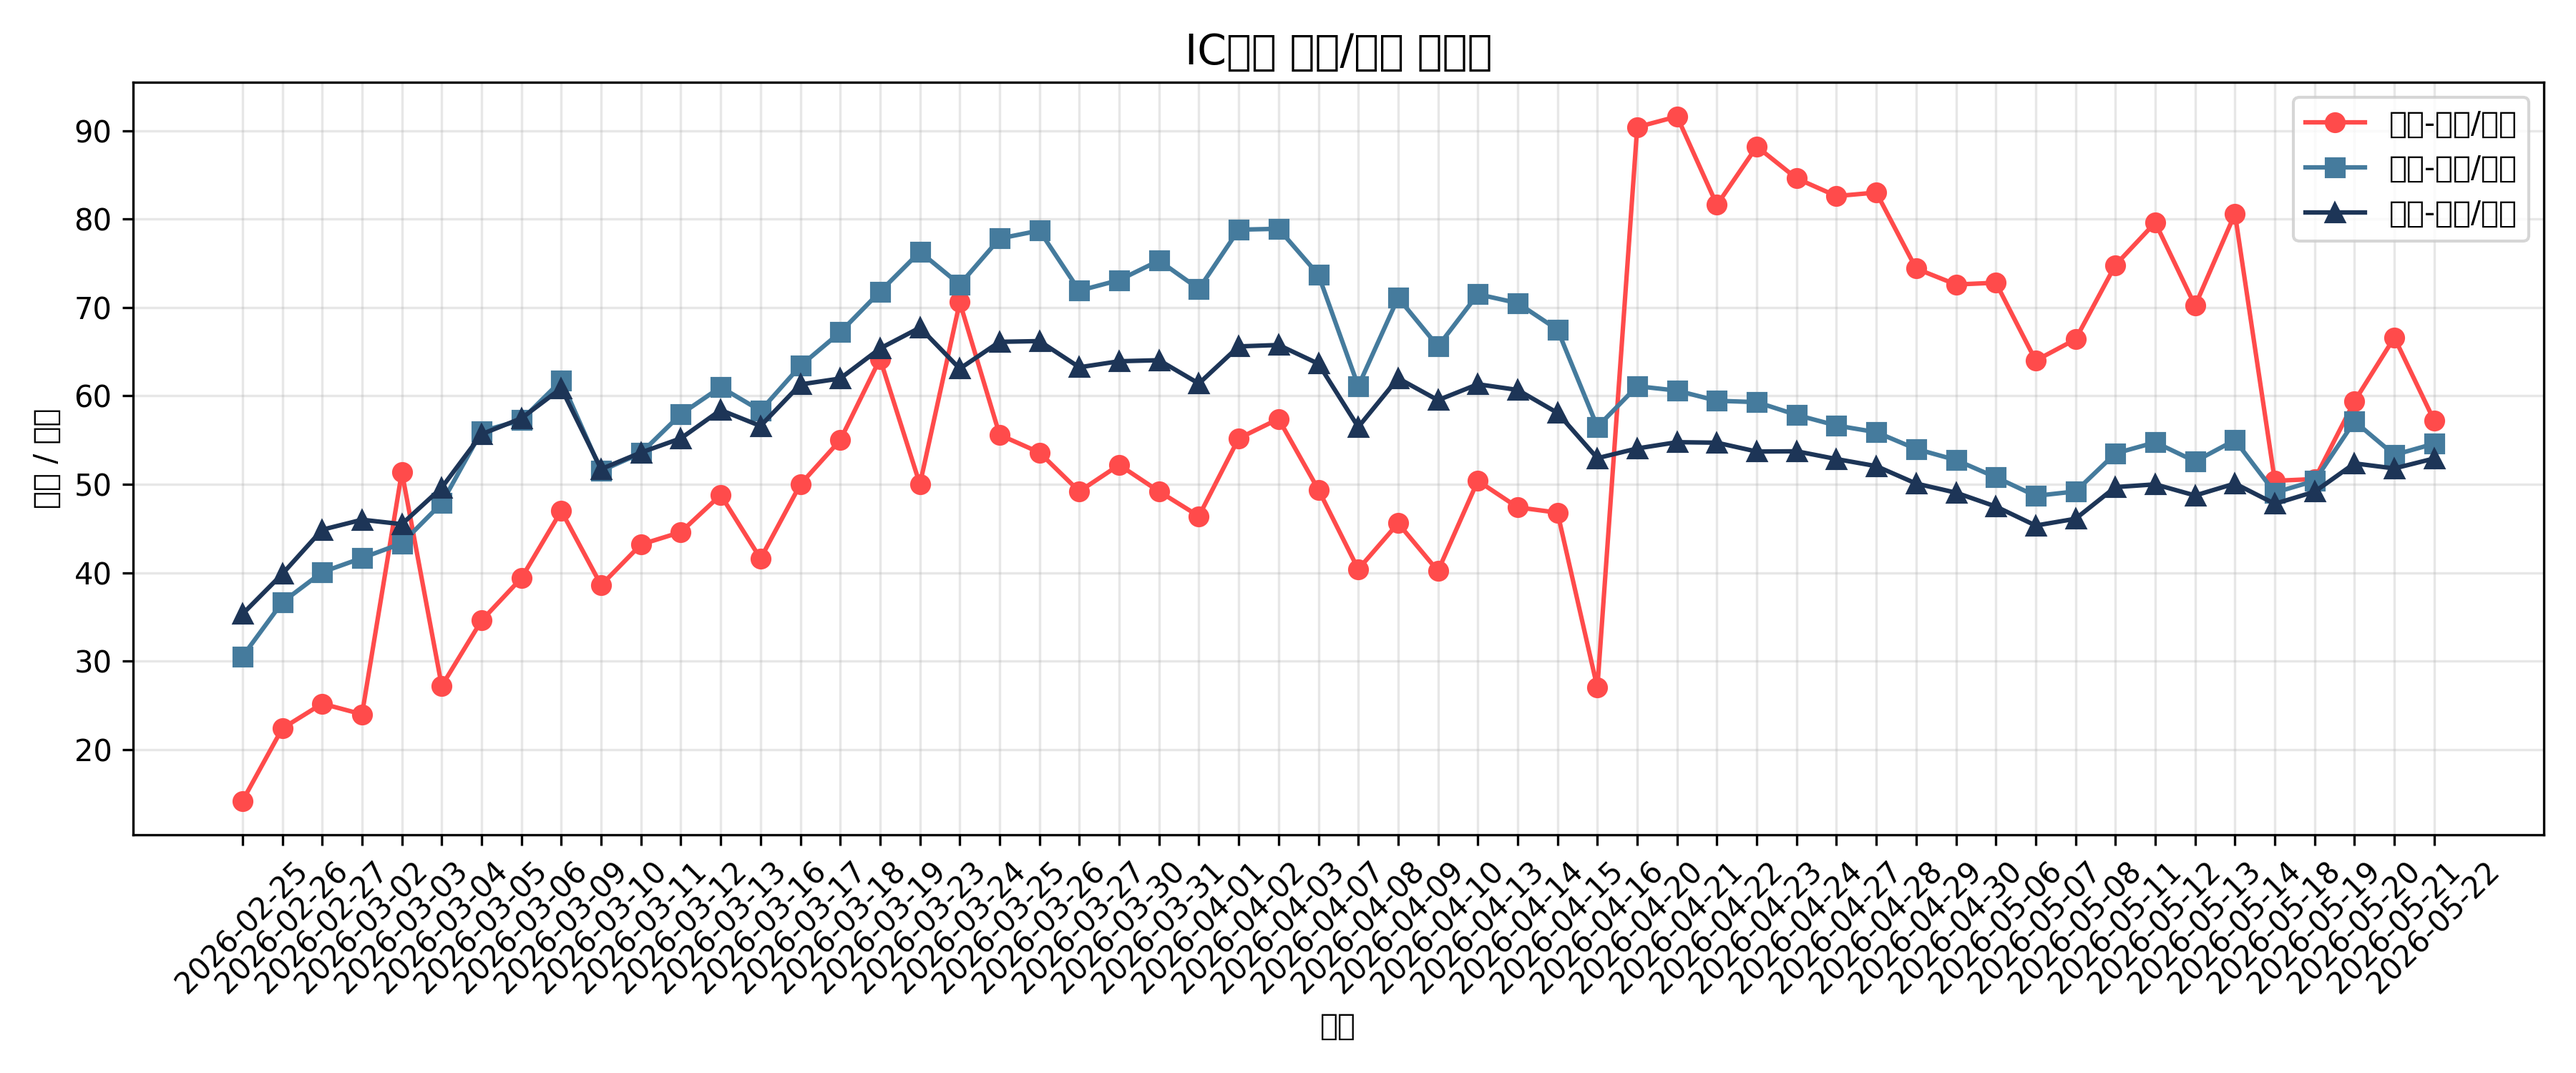
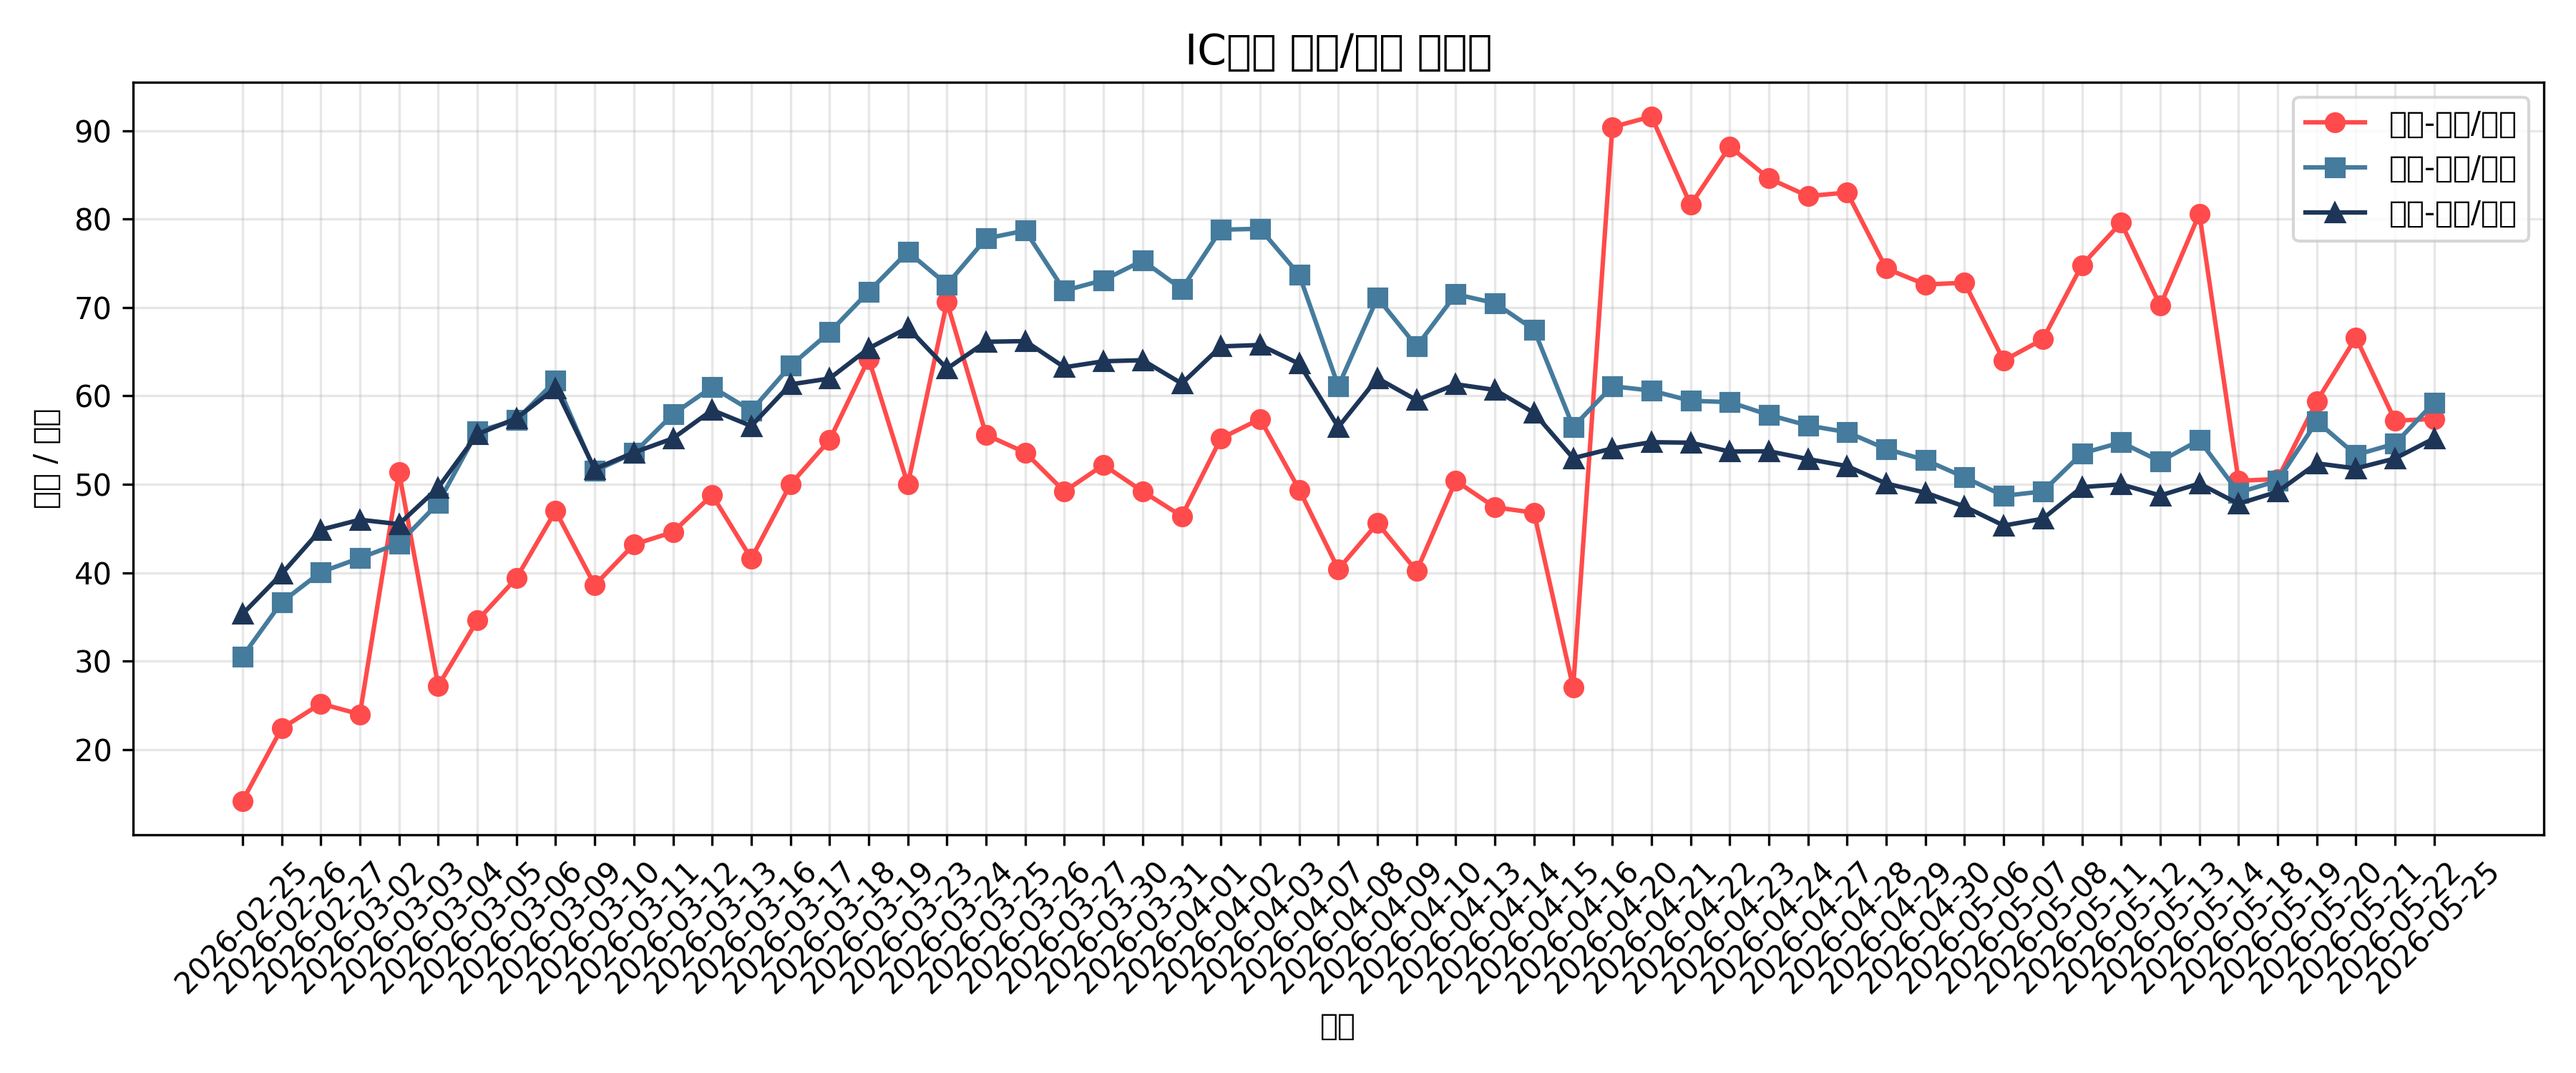
deploy: 4d1bb30b7b0bf8623cc214497fc979b4192c654b

diff --git a/index.html b/index.html
@@ -84,19 +84,19 @@
 <body>
     <div class="container">
         <h1>IC期货基差监控</h1>
-        <div class="last-updated">最后更新：2026-05-22 19:28:31</div>
+        <div class="last-updated">最后更新：2026-05-25 20:08:39</div>
         
         <div class="stats">
             <div class="stat-card">
-                <div class="stat-value">57.2</div>
+                <div class="stat-value">57.4</div>
                 <div class="stat-label">当月-下月/月差</div>
             </div>
             <div class="stat-card">
-                <div class="stat-value">54.6</div>
+                <div class="stat-value">59.27</div>
                 <div class="stat-label">当月-当季/月差</div>
             </div>
             <div class="stat-card">
-                <div class="stat-value">52.93</div>
+                <div class="stat-value">55.2</div>
                 <div class="stat-label">当月-下季/月差</div>
             </div>
         </div>
@@ -114,14 +114,6 @@
                 <th>当月-下月/月差</th>
                 <th>当月-当季/月差</th>
                 <th>当月-下季/月差</th>
-            </tr>
-
-            <tr>
-                <td>2026-05-13</td>
-                <td>IC2605</td>
-                <td>70.2</td>
-                <td>52.6</td>
-                <td>48.74</td>
             </tr>
 
             <tr>
@@ -170,6 +162,14 @@
                 <td>57.2</td>
                 <td>54.6</td>
                 <td>52.93</td>
+            </tr>
+
+            <tr>
+                <td>2026-05-25</td>
+                <td>IC2606</td>
+                <td>57.4</td>
+                <td>59.27</td>
+                <td>55.2</td>
             </tr>
 
         </table>
